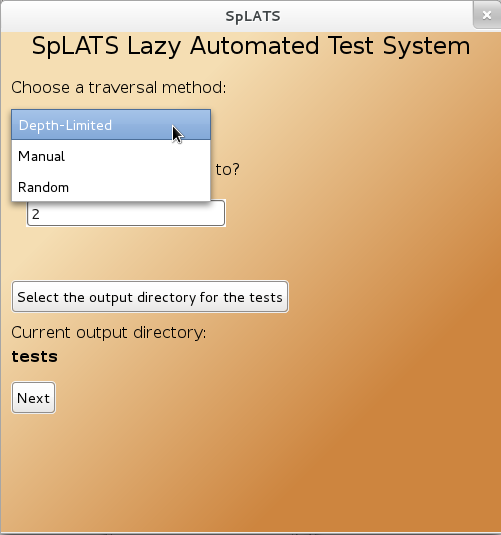
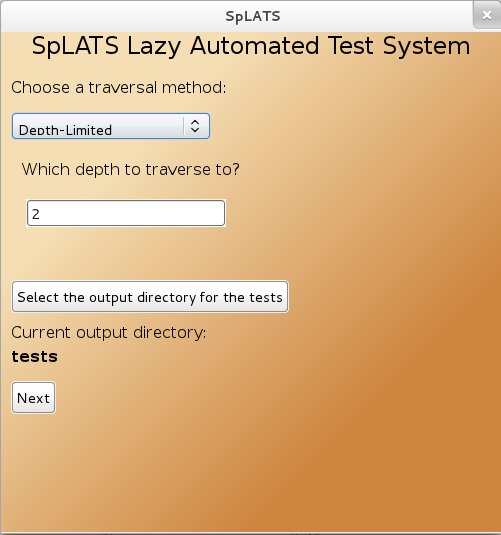
Added GUI section and images

Changed region(s): [[0.0, 0.1794, 0.4491, 0.3888]]

diff --git a/docs/chapters/architecture.tex b/docs/chapters/architecture.tex
@@ -49,15 +49,26 @@
   \end{enumerate}
   
   \subsection{User Interface}
+  \setcounter{secnumdepth}{4}
   \subsubsection{Command Line Interface}
   \subsubsection{Graphical User Interface (GUI)}
-  The GUI was designed to be as minimalist as possible, with as view button presses as possible. As no one in the group would proclaim to be a designer, the look of the GUI is minimalist as well. The images below are used to illustrate the workflow the user goes through when first loading the GUI.
+  \paragraph{Choice of framework}
+  The GUI was initially implemented with a stand-alone Ruby program by \_why called Shoes\footnote{\url{http://shoesrb.com/}}. This came shipped with its own version of Ruby. After some discussion, it was decided that we should try to use as many Gems\footnote{Ruby's equivalent of libraries} as possible, rather than stand-alone programs which the user must install. For this reason, the GUI was ported over to Green Shoes\footnote{\url{https://github.com/ashbb/green_shoes}} which can be installed by the standard "gem install" command, loaded in SpLATS by "require green\_shoes" and run as a normal Ruby file.
+  
+  \paragraph{Design}
+  The GUI was designed to be minimalist with as few buttons as possible. As no one in the group would proclaim to be a designer, the look of the GUI is minimalist as well. The images are used to illustrate the workflow the user goes through when first loading the GUI.
+  
+  Figure \ref{fig:GUI_Page1} shows the page the user sees when they first load a file. Before the file is loaded, the button saying "Load first version of the code" is all they see. There is no other information on the first page, because it is assumed that the user wants to just begin testing and they already know what the program does. The "file open" dialog will not allow the user to cancel, nor allow the user to select a file which isn't '.rb'. Once a valid file is loaded, the "next" button and the text box appear. The text box is there to show the user what the inside of the file looks like, just so they are certain that they have loaded the correct version to test. In future implementations of SpLATS, it would be possible to make this file box editable and saveable, but that does not appear high on the list of priorities.
+  
+  Figure \ref{fig:GUI_Page2} is the same as the first page, only for the second version of the code.
+  Figure \ref{fig:GUI_Page3a} show the options the user then has to traverse the code. As discussed in the traversal methods, SpLATS currently only implements three traversal methods, but more can be added easily into the GUI. As the user changes their selection in the drop-down box, the options in the space below change to update inputs. Figures \ref{fig:GUI_Page3b} and \ref{fig:GUI_Page3c} illustrate this. The "next" button on third page doesn't work unless the extra parameters for "Random" and "Depth-Limited" are correct. Figure \ref{fig:GUI_Page3d} shows what the user sees when they've entered an invalid seed.
   \begin{center}
-    \graphic{width=0.8\textwidth}{page_1}{First page - the user must load version 1}{fig:GUI_Page1}
-    \graphic{width=0.8\textwidth}{page_2}{Second page - the user must load version 2}{fig:GUI_Page2}
-    \graphic{width=0.8\textwidth}{page_3}{Third page default selection - Depth-Limited}{fig:GUI_Page3a}
-    \graphic{width=0.8\textwidth}{page_3a}{Third page options}{fig:GUI_Page3b}
-    \graphic{width=0.8\textwidth}{page_3b}{Third page random with seed}{fig:GUI_Page3c}
+    \graphic{width=0.5\textwidth}{page_1}{First page - the user must load version 1}{fig:GUI_Page1}
+    \graphic{width=0.5\textwidth}{page_2}{Second page - the user must load version 2}{fig:GUI_Page2}
+    \graphic{width=0.5\textwidth}{page_3a}{Third page default selection - Depth-Limited}{fig:GUI_Page3a}
+    \graphic{width=0.5\textwidth}{page_3b}{Third page options}{fig:GUI_Page3b}
+    \graphic{width=0.5\textwidth}{page_3c}{Third page random with seed}{fig:GUI_Page3c}
+    \graphic{width=0.5\textwidth}{page_3d}{Third page seed input error}{fig:GUI_Page3d}
   \end{center}
 
   \subsection{Output}

diff --git a/docs/chapters/evaluation.tex b/docs/chapters/evaluation.tex
@@ -27,6 +27,8 @@
     There are 3 traversal mechanisms: depth-first, random and manual. \\
     \end{tabular}
 
+  \subsection{Testing by Inspection}
+  - Code coverage showed Tom that it wasn't doing 1 + 1 coerce error.
   \subsection{Code Coverage}
   \subsection{ZenTest}
   \subsection{Test Generation and Comparison}
